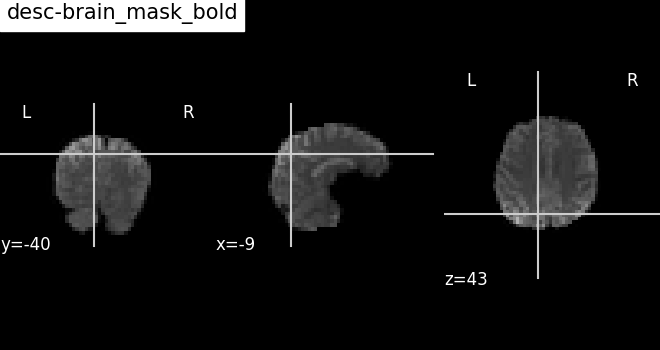
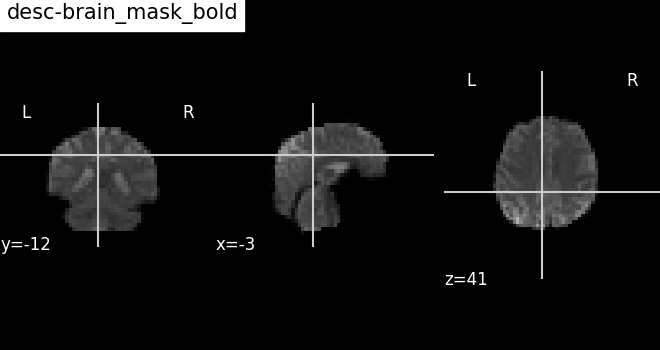
.ipynb file linked to Readme

diff --git a/nodeblocks/src/run_func_pipeline.py b/nodeblocks/src/run_func_pipeline.py
@@ -31,12 +31,13 @@ input_bold = os.path.join(base,"data/neurocon/sub-control032014/func/sub-control
 from nodeblocks.func_preproc import auto_mask
 skull_stripped = auto_mask(input_bold)
 
-from nodeblocks.func_preproc import motion_correction
-mc = motion_correction(skull_stripped.brain_file)
-
 from nodeblocks.func_preproc import average_bold
-average = average_bold(mc.out_file)
+average = average_bold(skull_stripped.brain_file)
 
+from nodeblocks.func_preproc import motion_correction
+mc = motion_correction(skull_stripped.brain_file, average.out_file)
+
+mean = average_bold(mc.out_file)
 from nilearn.plotting import plot_anat
-fig = plot_anat(average.out_file, title="desc-brain_mask_bold", display_mode="ortho")
+fig = plot_anat(mean.out_file, title="desc-brain_mask_bold", display_mode="ortho")
 fig.savefig('desc-brain_mask_bold.png')

diff --git a/nodeblocks/func_preproc.py b/nodeblocks/func_preproc.py
@@ -7,9 +7,15 @@ def auto_mask(input_bold):
     return out
 
 def average_bold(input_bold):
-    out = afni.v_3d_tstat(mean=True, in_file=input_bold, prefix="desc-mean_bold.nii.gz")
+    out = afni.v_3d_tstat(mean=True, in_file=input_bold, prefix="desc-mean_sbref.nii.gz")
     return out
 
-def motion_correction(input_bold):
-    out = afni.v_3dvolreg(in_file=input_bold, prefix="desc-mc_bold.nii.gz")
+def motion_correction(input_bold, base_file):
+    out = afni.v_3dvolreg(in_file=input_bold, 
+                          twopass=True,
+                          fourier=True,
+                          zpad=4,
+                          basefile=base_file,
+                          prefix="desc-mc_bold.nii.gz",
+                          maxdisp1d="desc-mc_maxdisp_bold.1D")
     return out

diff --git a/CPAC/__init__.py b/CPAC/__init__.py
@@ -1,0 +1,10 @@
+from flask import Flask
+
+
+def create_app():
+    app = Flask(__name__)
+
+    from CPAC.views.main import main
+    app.register_blueprint(main)
+
+    return app

diff --git a/run.py b/run.py
@@ -1,0 +1,7 @@
+from CPAC import create_app
+
+app = create_app()
+app.app_context().push()
+
+if __name__ == "__main__":
+    app.run(debug=False, host='0.0.0.0', port=5000)

diff --git a/README.md b/README.md
@@ -4,4 +4,4 @@ Clone the repo to your locan and run
 `bash pull-images.sh` to pull in the required images to your `cwd`
 
 if you have test fmri [anat scan](./original.png) you can use `test.py` to check if the `niwarp` works correctly.
-You should see the skull-stripped image like [this](./bet_output.png)
+You should see the skull-stripped image like [this](https://github.com/birajstha/niwarp-dev/blob/main/nodeblocks/src/run_anat_pipeline.ipynb)
